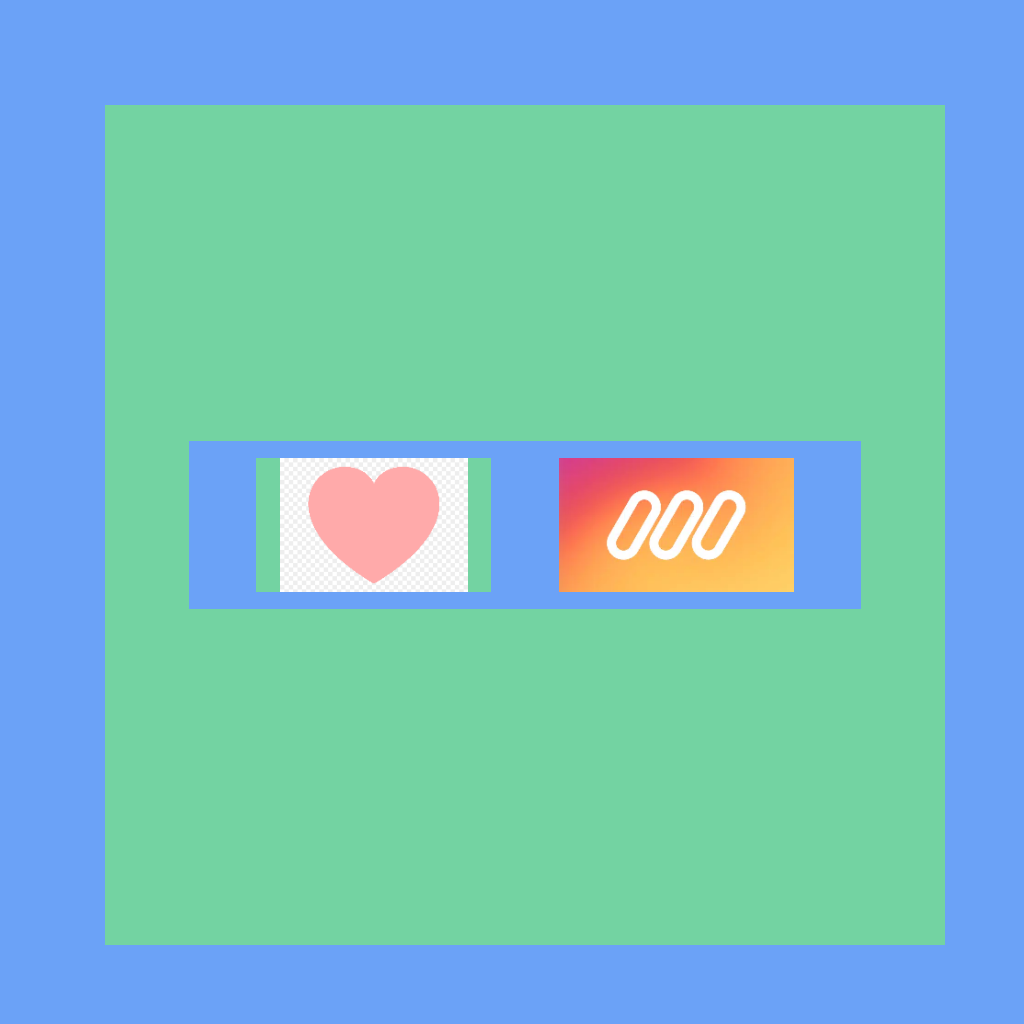
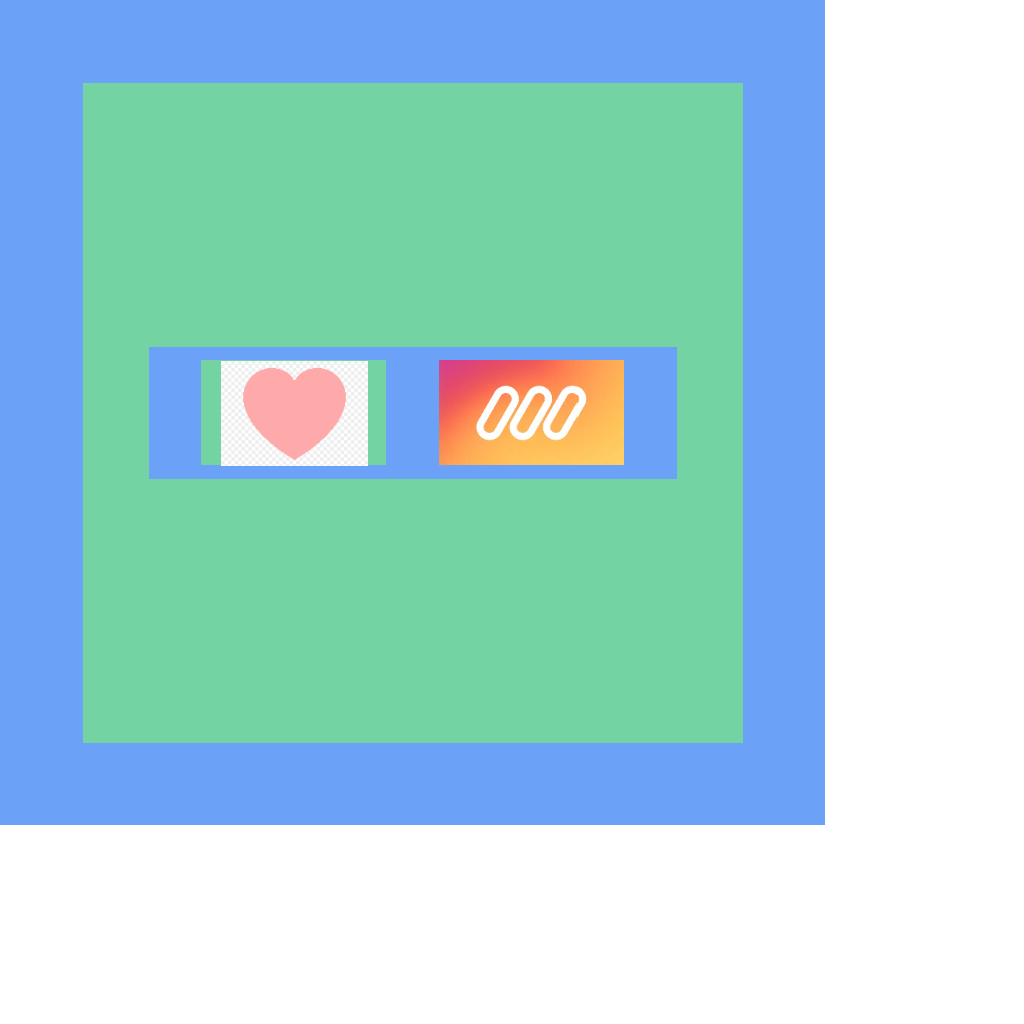
move MojoApplication to di package

diff --git a/app/src/main/java/com/mojo/app/MainActivity.kt b/app/src/main/java/com/mojo/app/MainActivity.kt
@@ -1,20 +1,31 @@
 package com.mojo.app
 
+import android.annotation.SuppressLint
 import android.os.Bundle
+import android.util.Log
+import android.view.MotionEvent.ACTION_DOWN
+import android.view.MotionEvent.ACTION_MOVE
+import android.view.MotionEvent.ACTION_UP
 import androidx.appcompat.app.AppCompatActivity
 import androidx.lifecycle.coroutineScope
 import com.mojo.app.data.LayoutFetcher
 import com.mojo.app.di.Injector
 import com.mojo.app.engine.LayoutAdapter
 import com.mojo.app.engine.media.DefaultImageFetcher
+import com.mojo.app.engine.motion.MotionHandler
 import kotlinx.android.synthetic.main.activity_main.mojoView
 import kotlinx.coroutines.CoroutineDispatcher
+import kotlinx.coroutines.flow.flatMapLatest
+import kotlinx.coroutines.flow.flatMapMerge
 import kotlinx.coroutines.flow.flowOn
+import kotlinx.coroutines.flow.onEach
 
 class MainActivity : AppCompatActivity() {
     lateinit var layoutFetcher: LayoutFetcher
     lateinit var dispatcher: CoroutineDispatcher
+    lateinit var motionHandler: MotionHandler
 
+    @SuppressLint("ClickableViewAccessibility")
     override fun onCreate(savedInstanceState: Bundle?) {
         super.onCreate(savedInstanceState)
         setContentView(R.layout.activity_main)
@@ -23,6 +34,27 @@ class MainActivity : AppCompatActivity() {
 
         layoutFetcher = injector.layoutFetcherLocator().layoutFetcher(this)
         dispatcher = injector.dispatcherIO()
+
+        mojoView.setOnTouchListener { _, event ->
+            when (event.action) {
+                ACTION_DOWN -> {
+                    Log.i("ARLINDO", "ACTION_DOWN")
+                    motionHandler.initialX = event.rawX
+                    motionHandler.initialY = event.rawY
+                }
+                ACTION_MOVE -> {
+                    Log.i("ARLINDO", "ACTION_MOVE")
+                    motionHandler.move(event.rawX, event.rawY)
+                }
+                ACTION_UP -> {
+                    Log.i("ARLINDO", "ACTION_UP")
+                    motionHandler.initialX = 0f
+                    motionHandler.initialY = 0f
+                }
+            }
+
+            return@setOnTouchListener true
+        }
     }
 
     override fun onResume() {
@@ -32,6 +64,12 @@ class MainActivity : AppCompatActivity() {
             lifecycle.coroutineScope.launchWhenResumed {
                 LayoutAdapter(layout, DefaultImageFetcher(::getIdFor))
                     .adapt(mojoView.layoutParams.width, mojoView.layoutParams.height)
+                    .onEach { renderObjects ->
+                        motionHandler = MotionHandler(renderObjects)
+                    }
+                    .flatMapLatest {
+                        motionHandler.renderedObjects
+                    }
                     .flowOn(dispatcher)
                     .collect { renderObjects ->
                         mojoView.renderObjects = renderObjects

diff --git a/app/src/main/java/com/mojo/app/engine/motion/MotionHandler.kt b/app/src/main/java/com/mojo/app/engine/motion/MotionHandler.kt
@@ -1,0 +1,72 @@
+package com.mojo.app.engine.motion
+
+import com.mojo.app.engine.Bounds
+import com.mojo.app.engine.RenderObject
+import com.mojo.app.engine.emptyBounds
+import kotlinx.coroutines.flow.MutableStateFlow
+import kotlinx.coroutines.flow.asStateFlow
+import kotlin.math.max
+import kotlin.math.min
+
+class MotionHandler(initialRenderedObjects: List<RenderObject>) {
+    private val _renderObjects = MutableStateFlow(initialRenderedObjects)
+    val renderedObjects = _renderObjects.asStateFlow()
+
+    var initialX = 0f
+    var initialY = 0f
+
+    fun move(x: Float, y: Float) {
+        val renderObject = findRenderedObject(x, y)
+
+        val distanceX = initialX - x
+        val distanceY = initialY - y
+        initialX = x
+        initialY = y
+
+        val media = renderObject.media!!
+
+        val movedRenderedObject = renderObject.copy(
+            media = media.copy(
+                crop = newBounds(renderObject, distanceX, distanceY)
+            )
+        )
+
+        _renderObjects.tryEmit(replaceRenderObject(renderObject, movedRenderedObject))
+    }
+
+    private fun replaceRenderObject(old: RenderObject, new: RenderObject): List<RenderObject> {
+        return renderedObjects.value.toMutableList()
+            .map { if (it == old) new else it }.toList()
+    }
+
+    private fun newBounds(renderObject: RenderObject, x: Float, y: Float): Bounds {
+        val bounds = renderObject.bounds
+        val media = renderObject.media!!
+
+        val width = bounds.right - bounds.left
+        val height = bounds.bottom - bounds.top
+
+        val heightDif = media.bitmap.height - height
+        val widthDif = media.bitmap.width - width
+
+        val crop = media.crop ?: emptyBounds()
+
+        return with(crop) {
+            Bounds(
+                (left + x).ensureRange(0f, widthDif),
+                (top + y).ensureRange(0f,heightDif),
+                (right + x).ensureRange(width, media.bitmap.width.toFloat()),
+                (bottom + y).ensureRange(height, media.bitmap.height.toFloat()),
+            )
+        }
+    }
+
+    private fun findRenderedObject(x: Float, y: Float): RenderObject {
+        // last one on screen with media
+        return renderedObjects.value.last()
+    }
+}
+
+fun Float.ensureRange(min: Float, max: Float): Float {
+    return min(max(this, min), max)
+}

diff --git a/app/src/main/java/com/mojo/app/engine/media/MediaAdapter.kt b/app/src/main/java/com/mojo/app/engine/media/MediaAdapter.kt
@@ -3,6 +3,7 @@ package com.mojo.app.engine
 import android.graphics.Bitmap
 import com.mojo.app.data.MediaContentMode
 import com.mojo.app.engine.media.ImageFetcher
+import kotlin.math.max
 import kotlin.math.min
 
 fun adaptMedia(
@@ -11,19 +12,42 @@ fun adaptMedia(
     imageFetcher: ImageFetcher
 ): MediaObject {
     return when (mediaContentMode) {
-        MediaContentMode.fill -> MediaObject(fill(parentBounds, imageFetcher), parentBounds)
+        MediaContentMode.fill -> fill(parentBounds, imageFetcher)
         MediaContentMode.fit -> fit(parentBounds, imageFetcher)
     }
 }
 
-fun fill(bounds: Bounds, imageFetcher: ImageFetcher): Bitmap {
+fun fill(bounds: Bounds, imageFetcher: ImageFetcher): MediaObject {
+    val bitmap = imageFetcher.get()
+
     val width = bounds.right - bounds.left
     val height = bounds.bottom - bounds.top
 
-    return imageFetcher
-        .resize(width, height)
-        .centerCrop()
+    val scaleWidth = width / bitmap.width
+    val scaleHeight = height / bitmap.height
+    val scaleRatio = max(scaleHeight, scaleWidth)
+
+    val scaledBitmap = imageFetcher
+        .resize(bitmap.width * scaleRatio, bitmap.height * scaleRatio)
         .get()
+
+    var top = 0f
+    var bottom = height
+    var left = 0f
+    var right = width
+
+    if(scaleHeight > scaleWidth) {
+        left =  scaledBitmap.width / 2 - width / 2
+        right = left + width
+    } else {
+        top = scaledBitmap.height / 2 - height / 2
+        bottom = top + height
+    }
+
+
+    val crop = Bounds(left, top, right, bottom)
+
+    return MediaObject(scaledBitmap, bounds, crop)
 }
 
 fun fit(bounds: Bounds, imageFetcher: ImageFetcher): MediaObject {

diff --git a/app/src/main/java/com/mojo/app/render/MojoView.kt b/app/src/main/java/com/mojo/app/render/MojoView.kt
@@ -1,10 +1,7 @@
 package com.mojo.app.render
 
 import android.content.Context
-import android.graphics.Canvas
-import android.graphics.Color
-import android.graphics.Paint
-import android.graphics.RectF
+import android.graphics.*
 import android.util.AttributeSet
 import android.view.View
 import com.mojo.app.engine.Bounds
@@ -27,7 +24,8 @@ class MojoView(context: Context?, attrs: AttributeSet?) : View(context, attrs) {
 
             objectToRender.media?.let { media ->
                 val bitmapBounds = media.bitmapBounds.toRectF()
-                canvas?.drawBitmap(media.bitmap, null, bitmapBounds, null)
+                val crop = media.crop.toRect()
+                canvas?.drawBitmap(media.bitmap, crop, bitmapBounds, null)
             }
         }
     }
@@ -43,5 +41,8 @@ class MojoView(context: Context?, attrs: AttributeSet?) : View(context, attrs) {
 }
 
 fun Bounds.toRectF() = RectF(left, top, right, bottom)
+fun Bounds?.toRect() = this?.let {
+    Rect(left.toInt(), top.toInt(), right.toInt(), bottom.toInt())
+}
 
 fun String.color() = Color.parseColor(this)

diff --git a/app/src/test/java/com/mojo/app/engine/drawing/LayoutAdapterTest.kt b/app/src/test/java/com/mojo/app/engine/drawing/LayoutAdapterTest.kt
@@ -54,7 +54,8 @@ class LayoutAdapterTest {
                     "#cecece",
                     MediaObject(
                         bitmap,
-                        bitmapBounds=Bounds(left=100.0f, top=100.0f, right=500.0f, bottom=500.0f)
+                        Bounds(left=100.0f, top=100.0f, right=500.0f, bottom=500.0f),
+                        Bounds(left=0.0f, top=-150.0f, right=400.0f, bottom=250.0f)
                     )
                 )
             )

diff --git a/app/src/main/java/com/mojo/app/engine/Bounds.kt b/app/src/main/java/com/mojo/app/engine/Bounds.kt
@@ -1,3 +1,5 @@
 package com.mojo.app.engine
 
 data class Bounds(val left: Float, val top: Float, val right: Float, val bottom: Float)
+
+fun emptyBounds() = Bounds(0f, 0f, 0f, 0f)

diff --git a/app/src/main/java/com/mojo/app/engine/RenderObject.kt b/app/src/main/java/com/mojo/app/engine/RenderObject.kt
@@ -11,4 +11,5 @@ data class RenderObject(
 data class MediaObject(
     val bitmap: Bitmap,
     val bitmapBounds: Bounds,
+    val crop: Bounds? = null
 )
